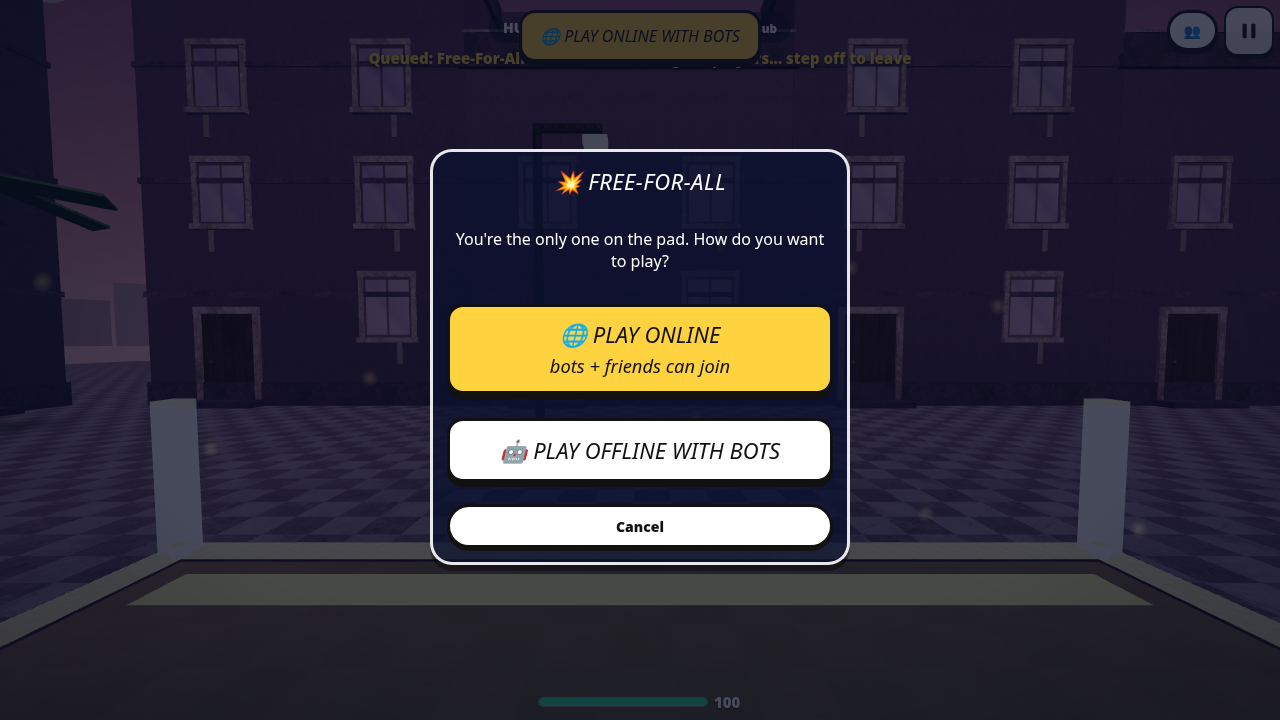
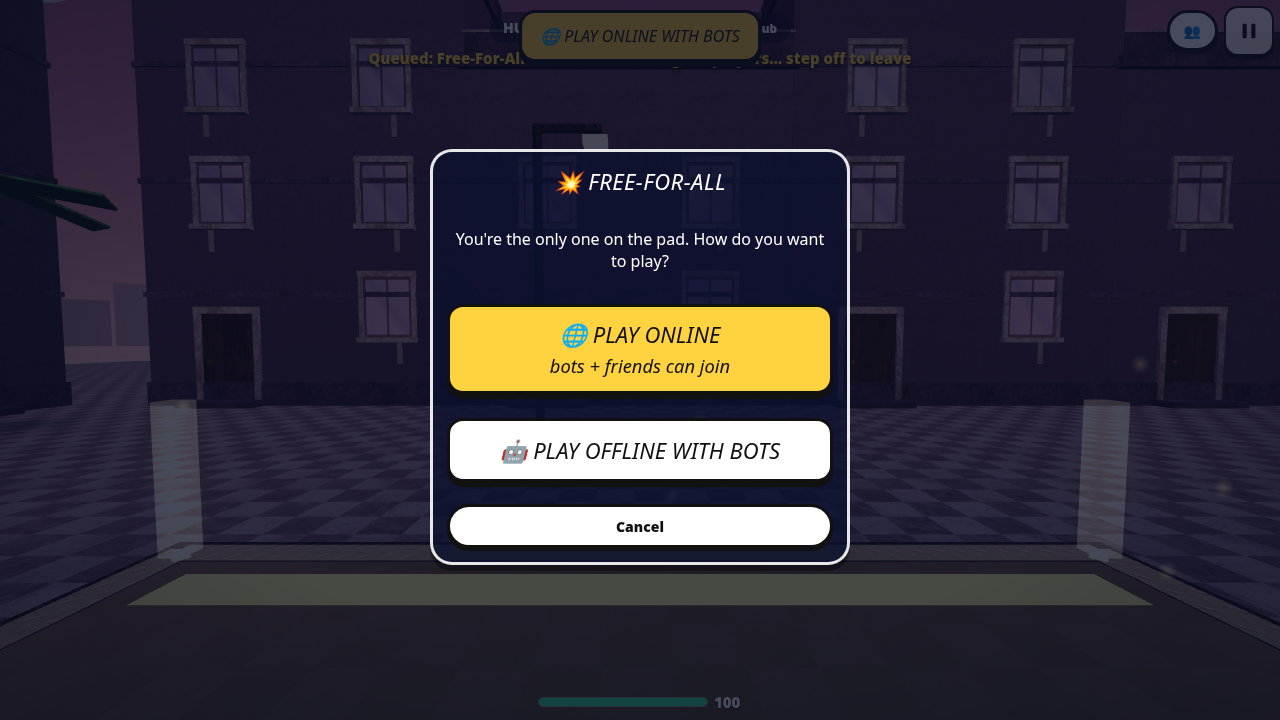
v44 (Stage 3): Battle Royale + Squad Royale, Party, hub queue pads, CTF bot AI, tests + screenshots

diff --git a/sw.js b/sw.js
@@ -1,5 +1,5 @@
 // Network-first service worker: always try fresh files (so updates show), fall back to cache offline.
-const CACHE='headshotz-v43';
+const CACHE='headshotz-v44';
 const ASSETS=['./','index.html','style.css','game.js','maps.js','maps2.js','mapdress.js','wskins.js','gfx.js','weapons.js','chars.js','humans.js','gear.js','post.js','assets.js','ice.js','manifest.json','lib/three.module.min.js','lib/peerjs.min.js','lib/localpeer.js','icons/icon-180.png','icons/icon-192.png','icons/icon-512.png'];
 self.addEventListener('install',e=>{self.skipWaiting();e.waitUntil(caches.open(CACHE).then(c=>c.addAll(ASSETS)).catch(()=>{}))});
 self.addEventListener('activate',e=>e.waitUntil(caches.keys().then(k=>Promise.all(k.filter(n=>n!==CACHE).map(n=>caches.delete(n)))).then(()=>self.clients.claim())));
